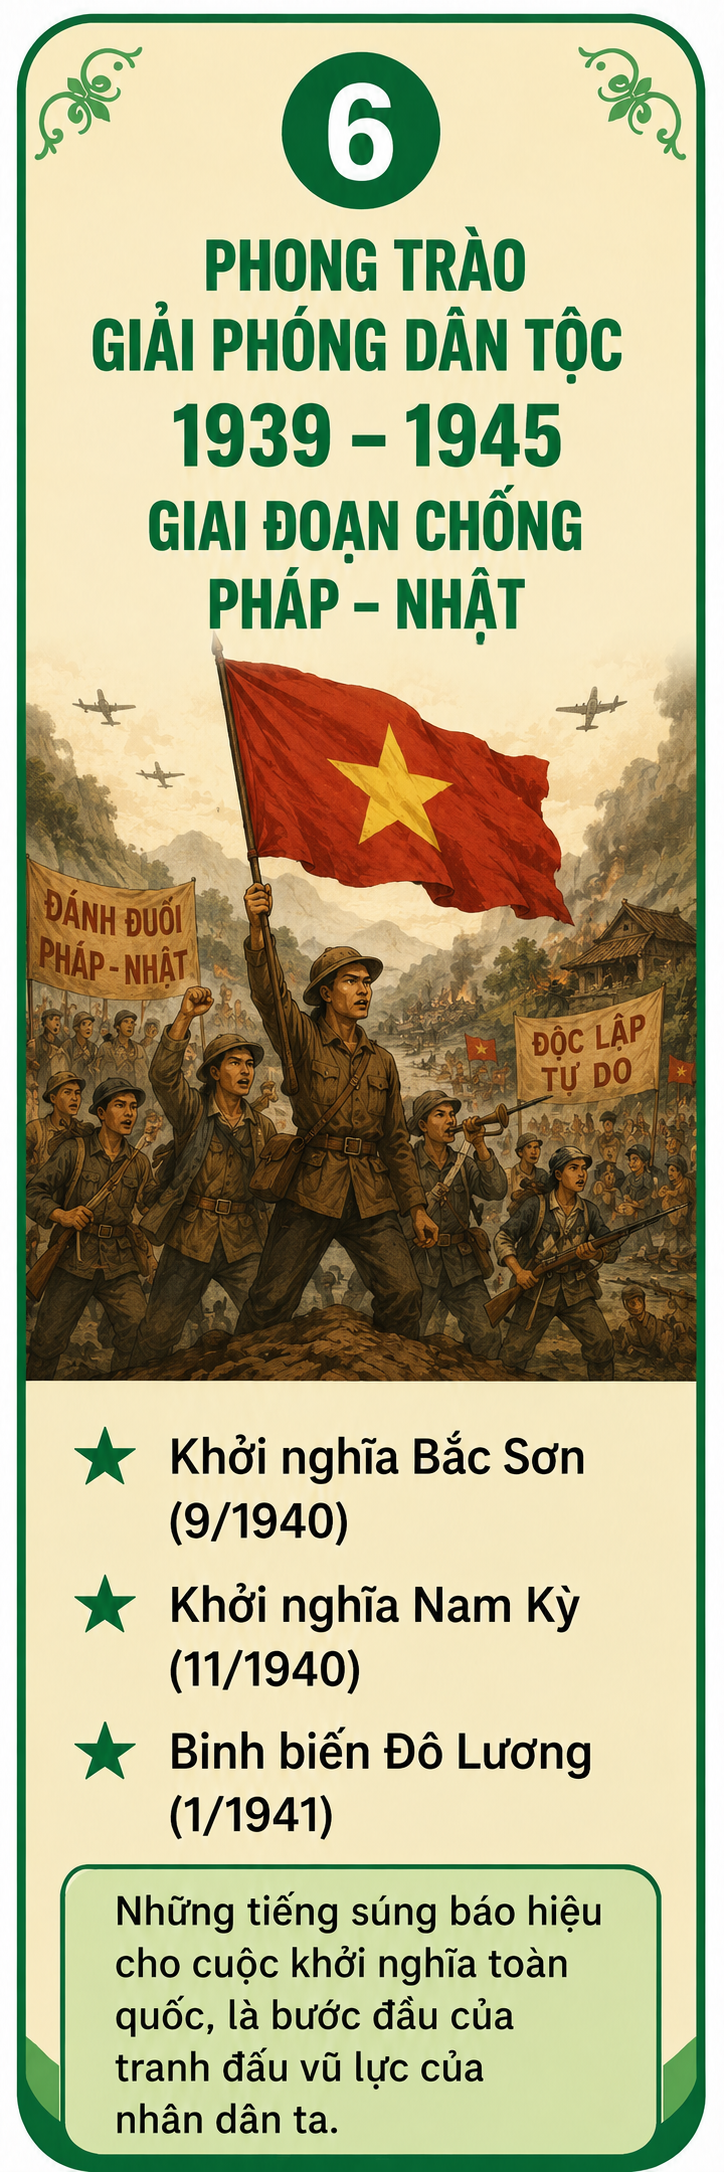
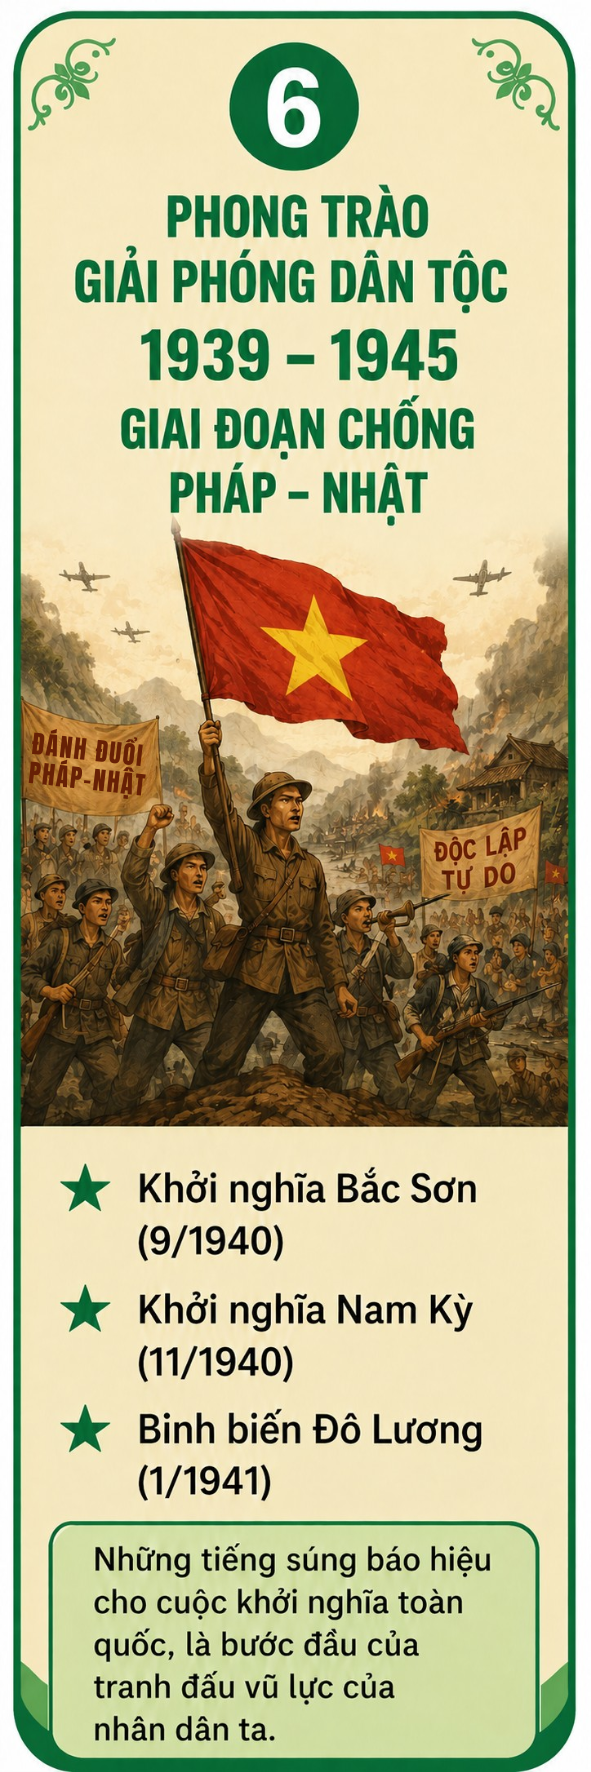
Bookmark 1.0.3

diff --git a/src/utils/bookmarkData.js b/src/utils/bookmarkData.js
@@ -34,12 +34,12 @@ const bookmarkSources = {
         sourceUrl: null
     },
     5: {
-        source: 'Hình AI',
-        sourceUrl: null
+        source: 'Lán Khuổi Nậm ở Pác Bó, xã Trường Hà, huyện Hà Quảng, Cao Bằng  nơi diễn ra Hội nghị Trung ương Đảng cộng sản Đông dương lần thứ VIII (5/1941)',
+        sourceUrl: 'https://baotanglichsu.vn/vi/Articles/3097/14317/hoi-nghi-lan-thu-viii-ban-chap-hanh-trung-uong-djang-va-quyet-djinh-tien-hanh-cong-cuoc-giai-phong-dan-toc-tu-ngay-10-djen-ngay-19-5-1941.html'
     },
     6: {
         source: 'Hình AI',
-        sourceUrl: null
+        sourceUrl: 'null'
     },
     7: {
         source: 'Ảnh: Lễ thành lập Đội Việt Nam Tuyên truyền Giải phóng quân tại khu rừng Trần Hưng Đạo, huyện Nguyên Bình, tỉnh Cao Bằng, ngày 22/12/1944.',